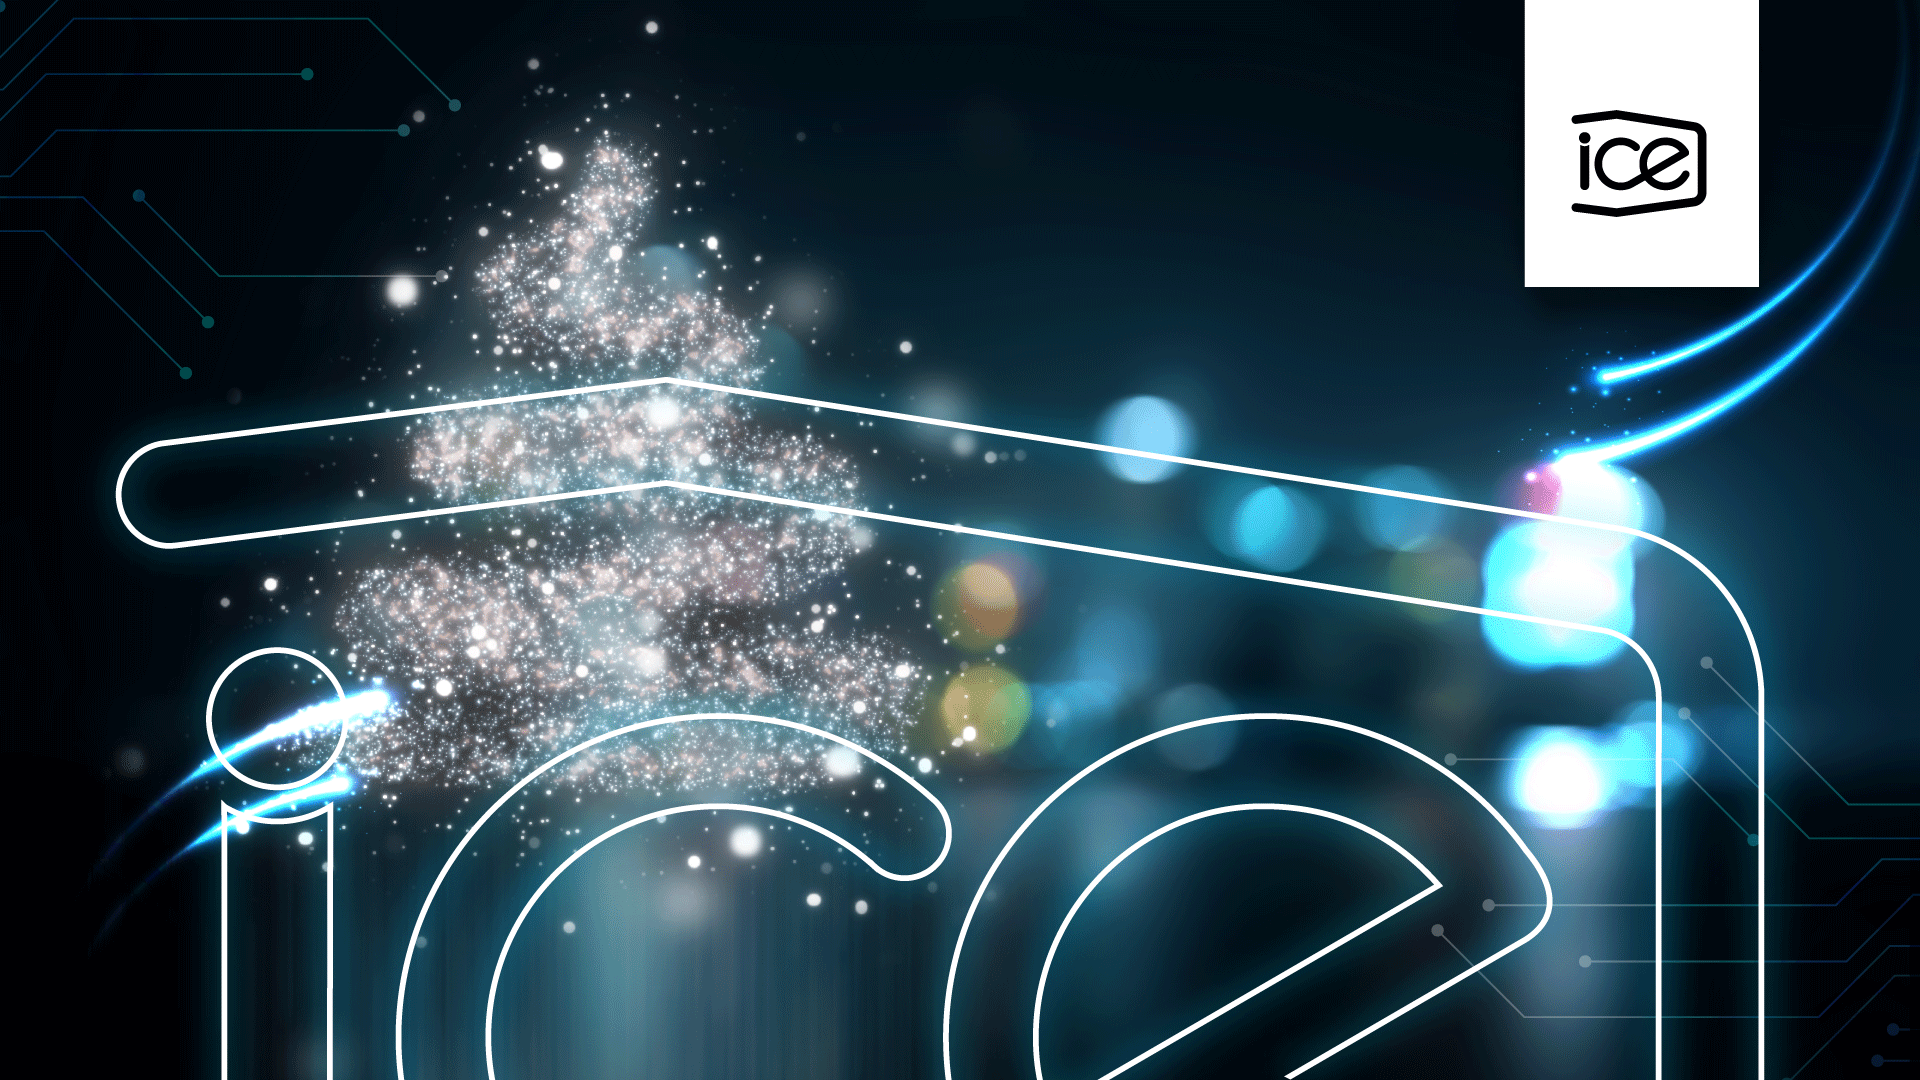
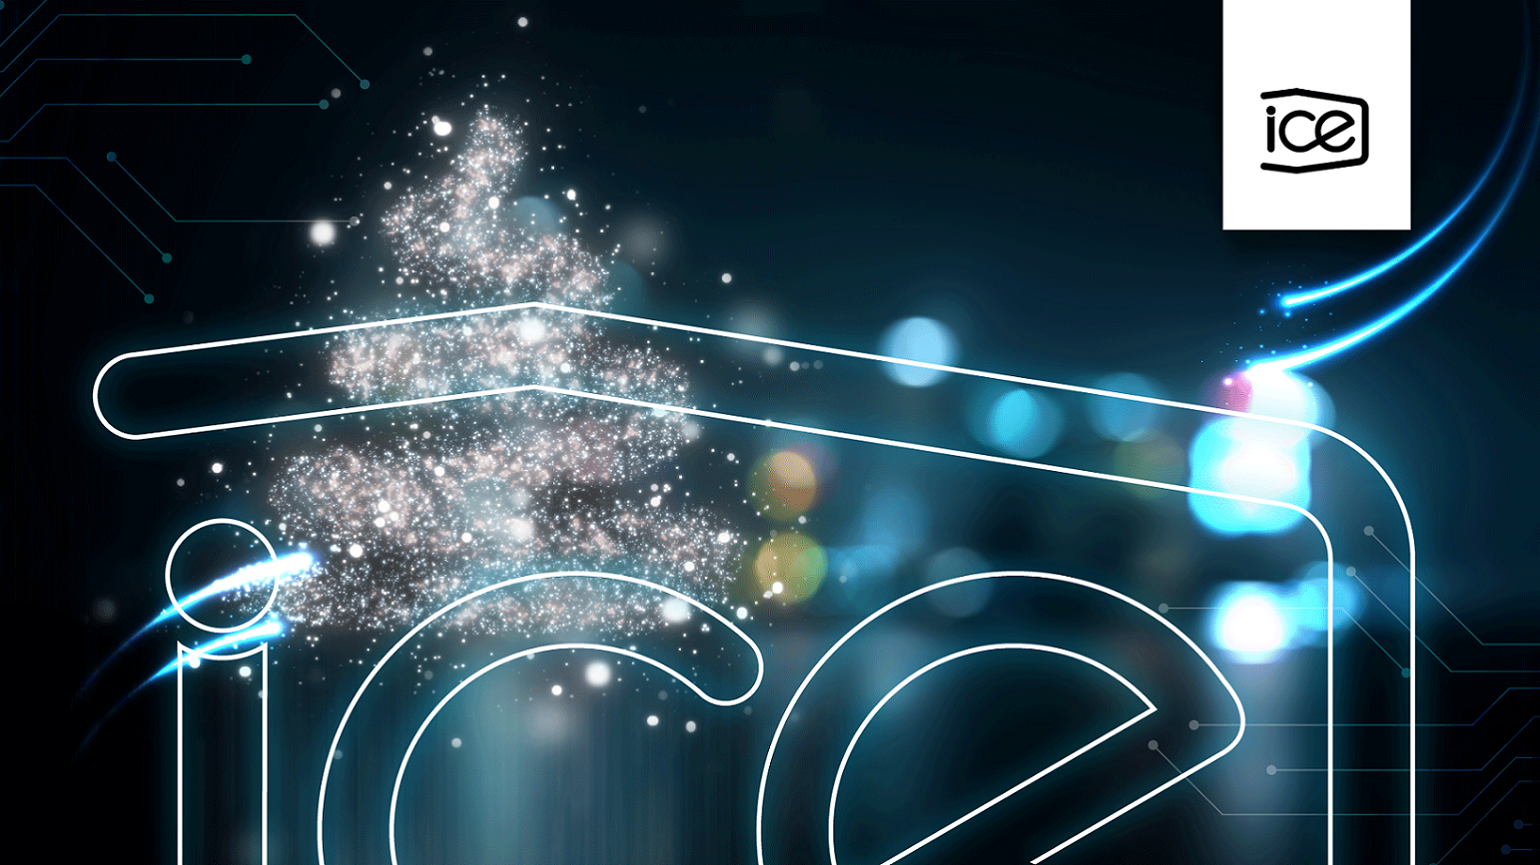
Cambios en tamaño de imagenes y fondos

Changed region(s): [[0.6545, 0.9988, 0.6857, 1.0], [0.4987, 0.5306, 0.5299, 0.5618]]

diff --git a/containers/themes/ice_energia/login/resources/css/login.css b/containers/themes/ice_energia/login/resources/css/login.css
@@ -1,7 +1,8 @@
 .login-pf body {
     height: 100%;
     background-color: #fafafa;
-    background: url(../img/iceEdificio3.jpg);
+    /*background: url(../img/fondo.jpg);*/
+    background: url(../img/fondo03.png);
     /*background: url(../../../../ice_energia/login/resources/img/logo_ice.png);*/
     background-repeat: no-repeat;
     margin: 0;
